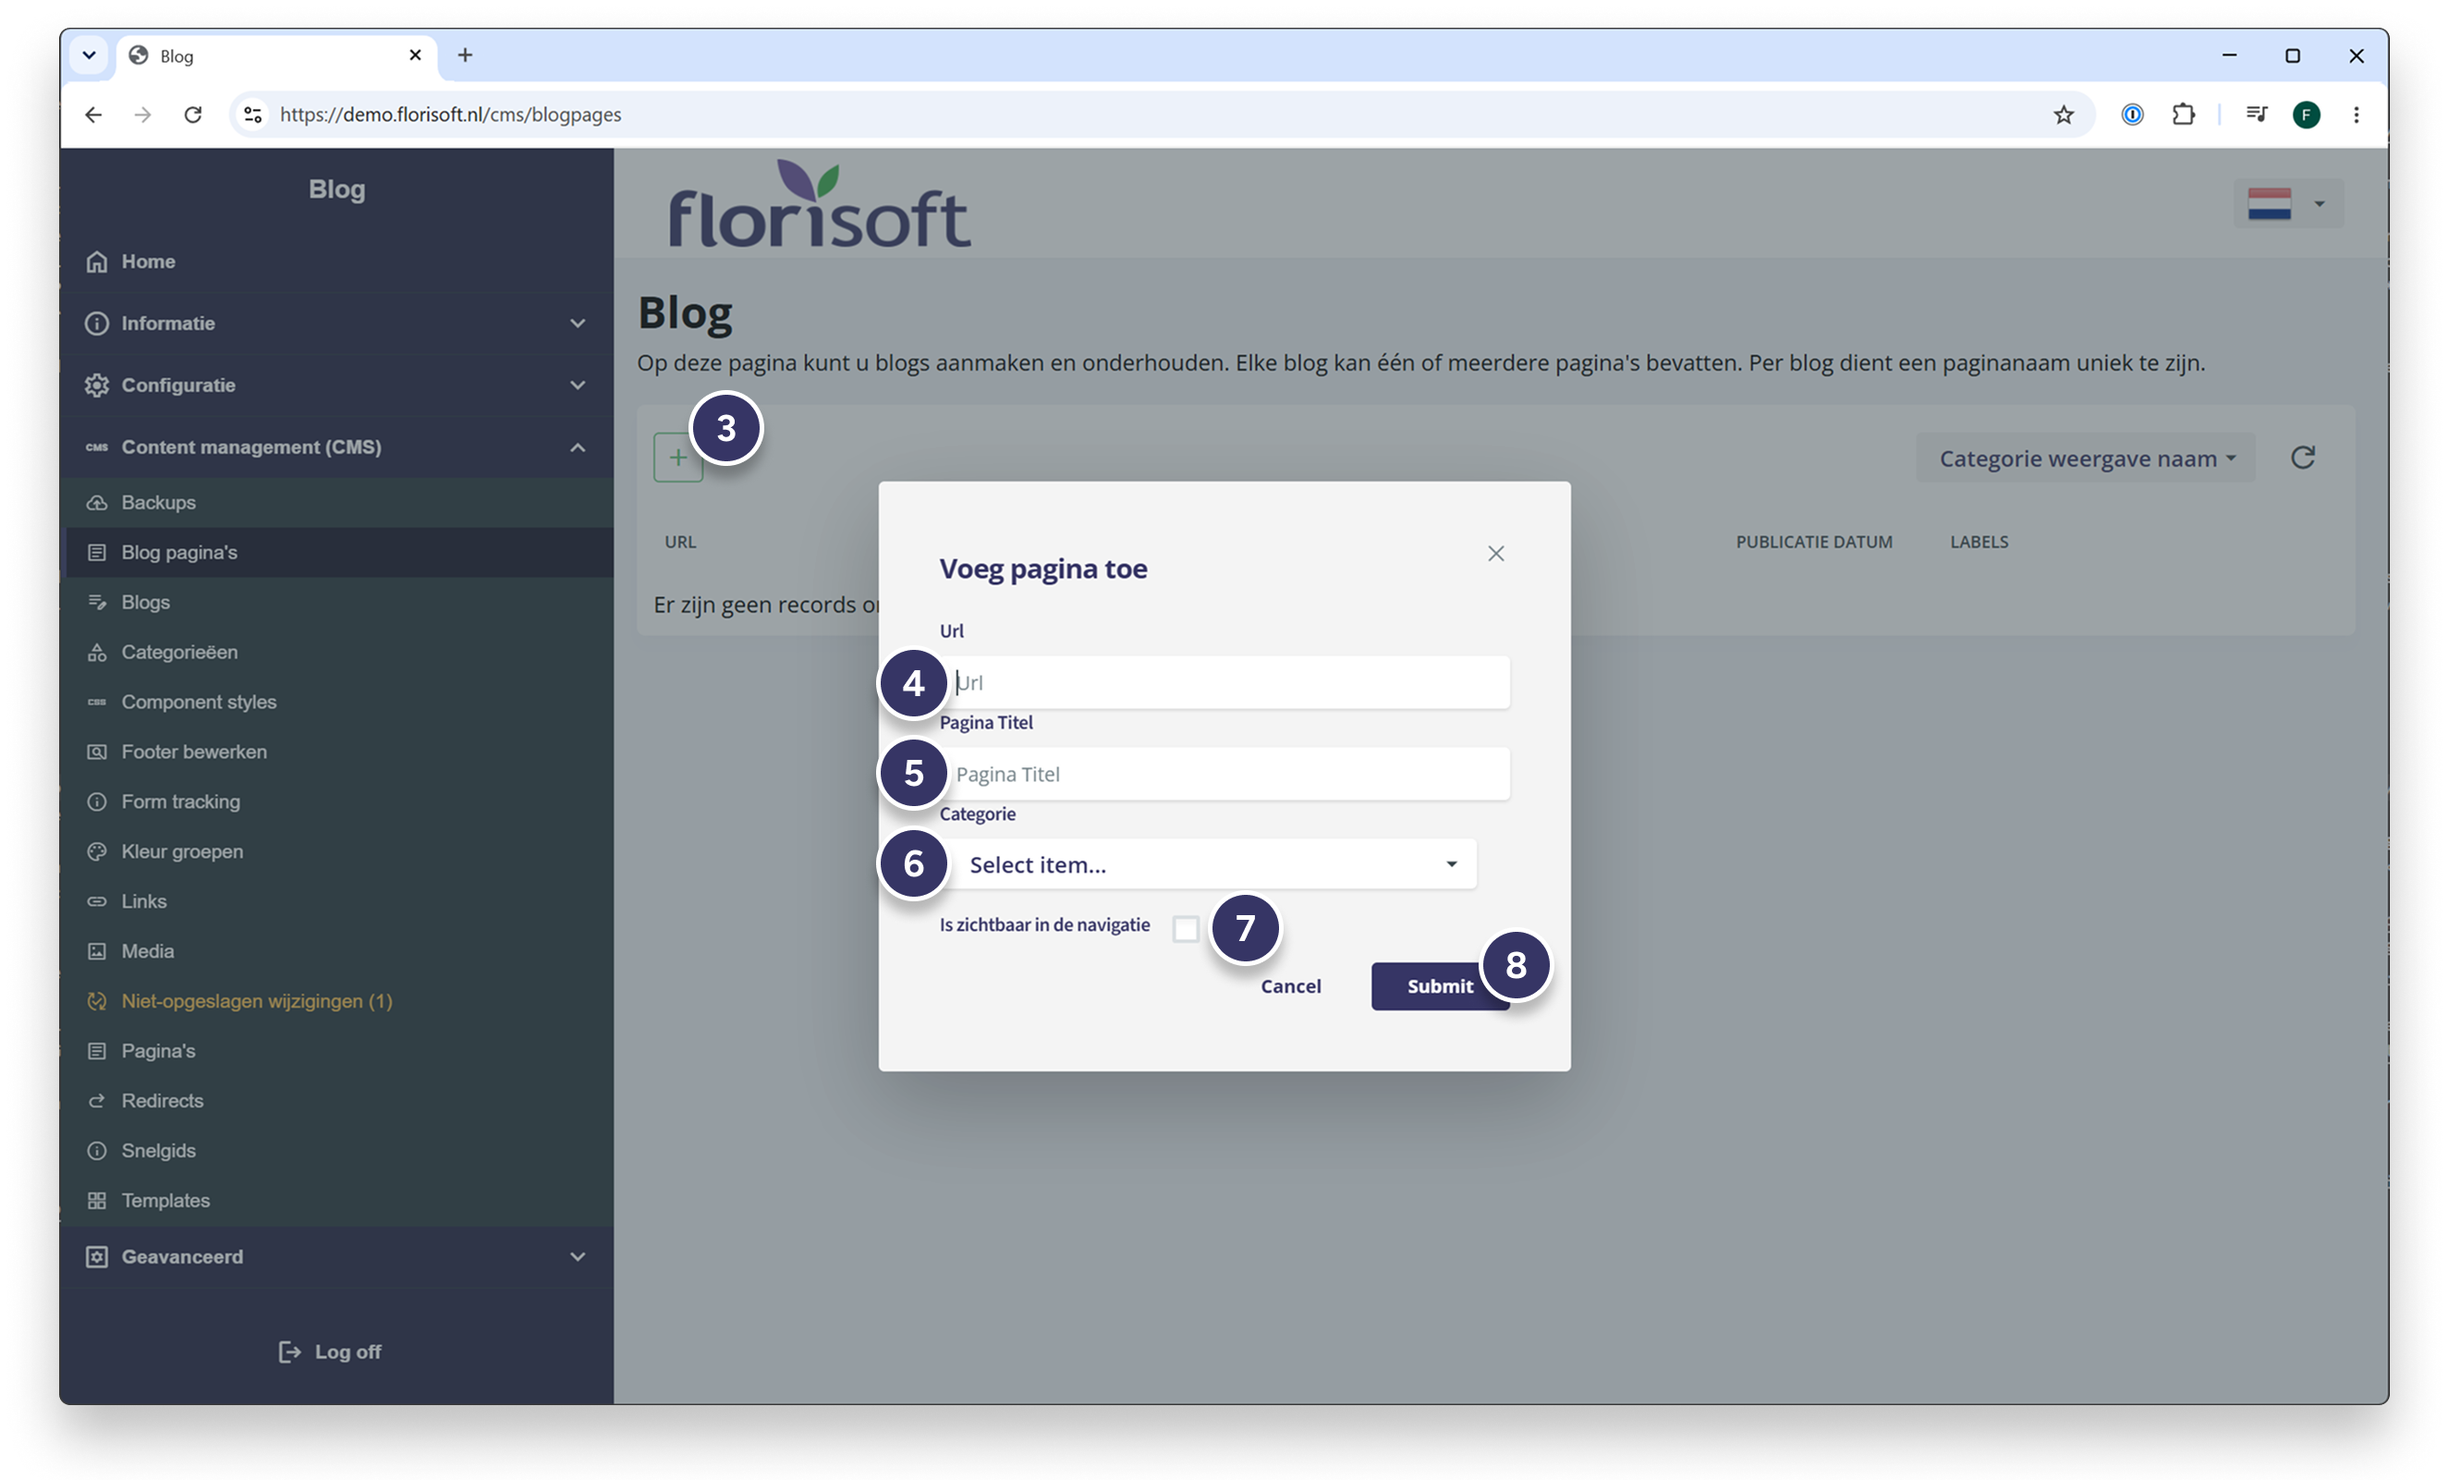
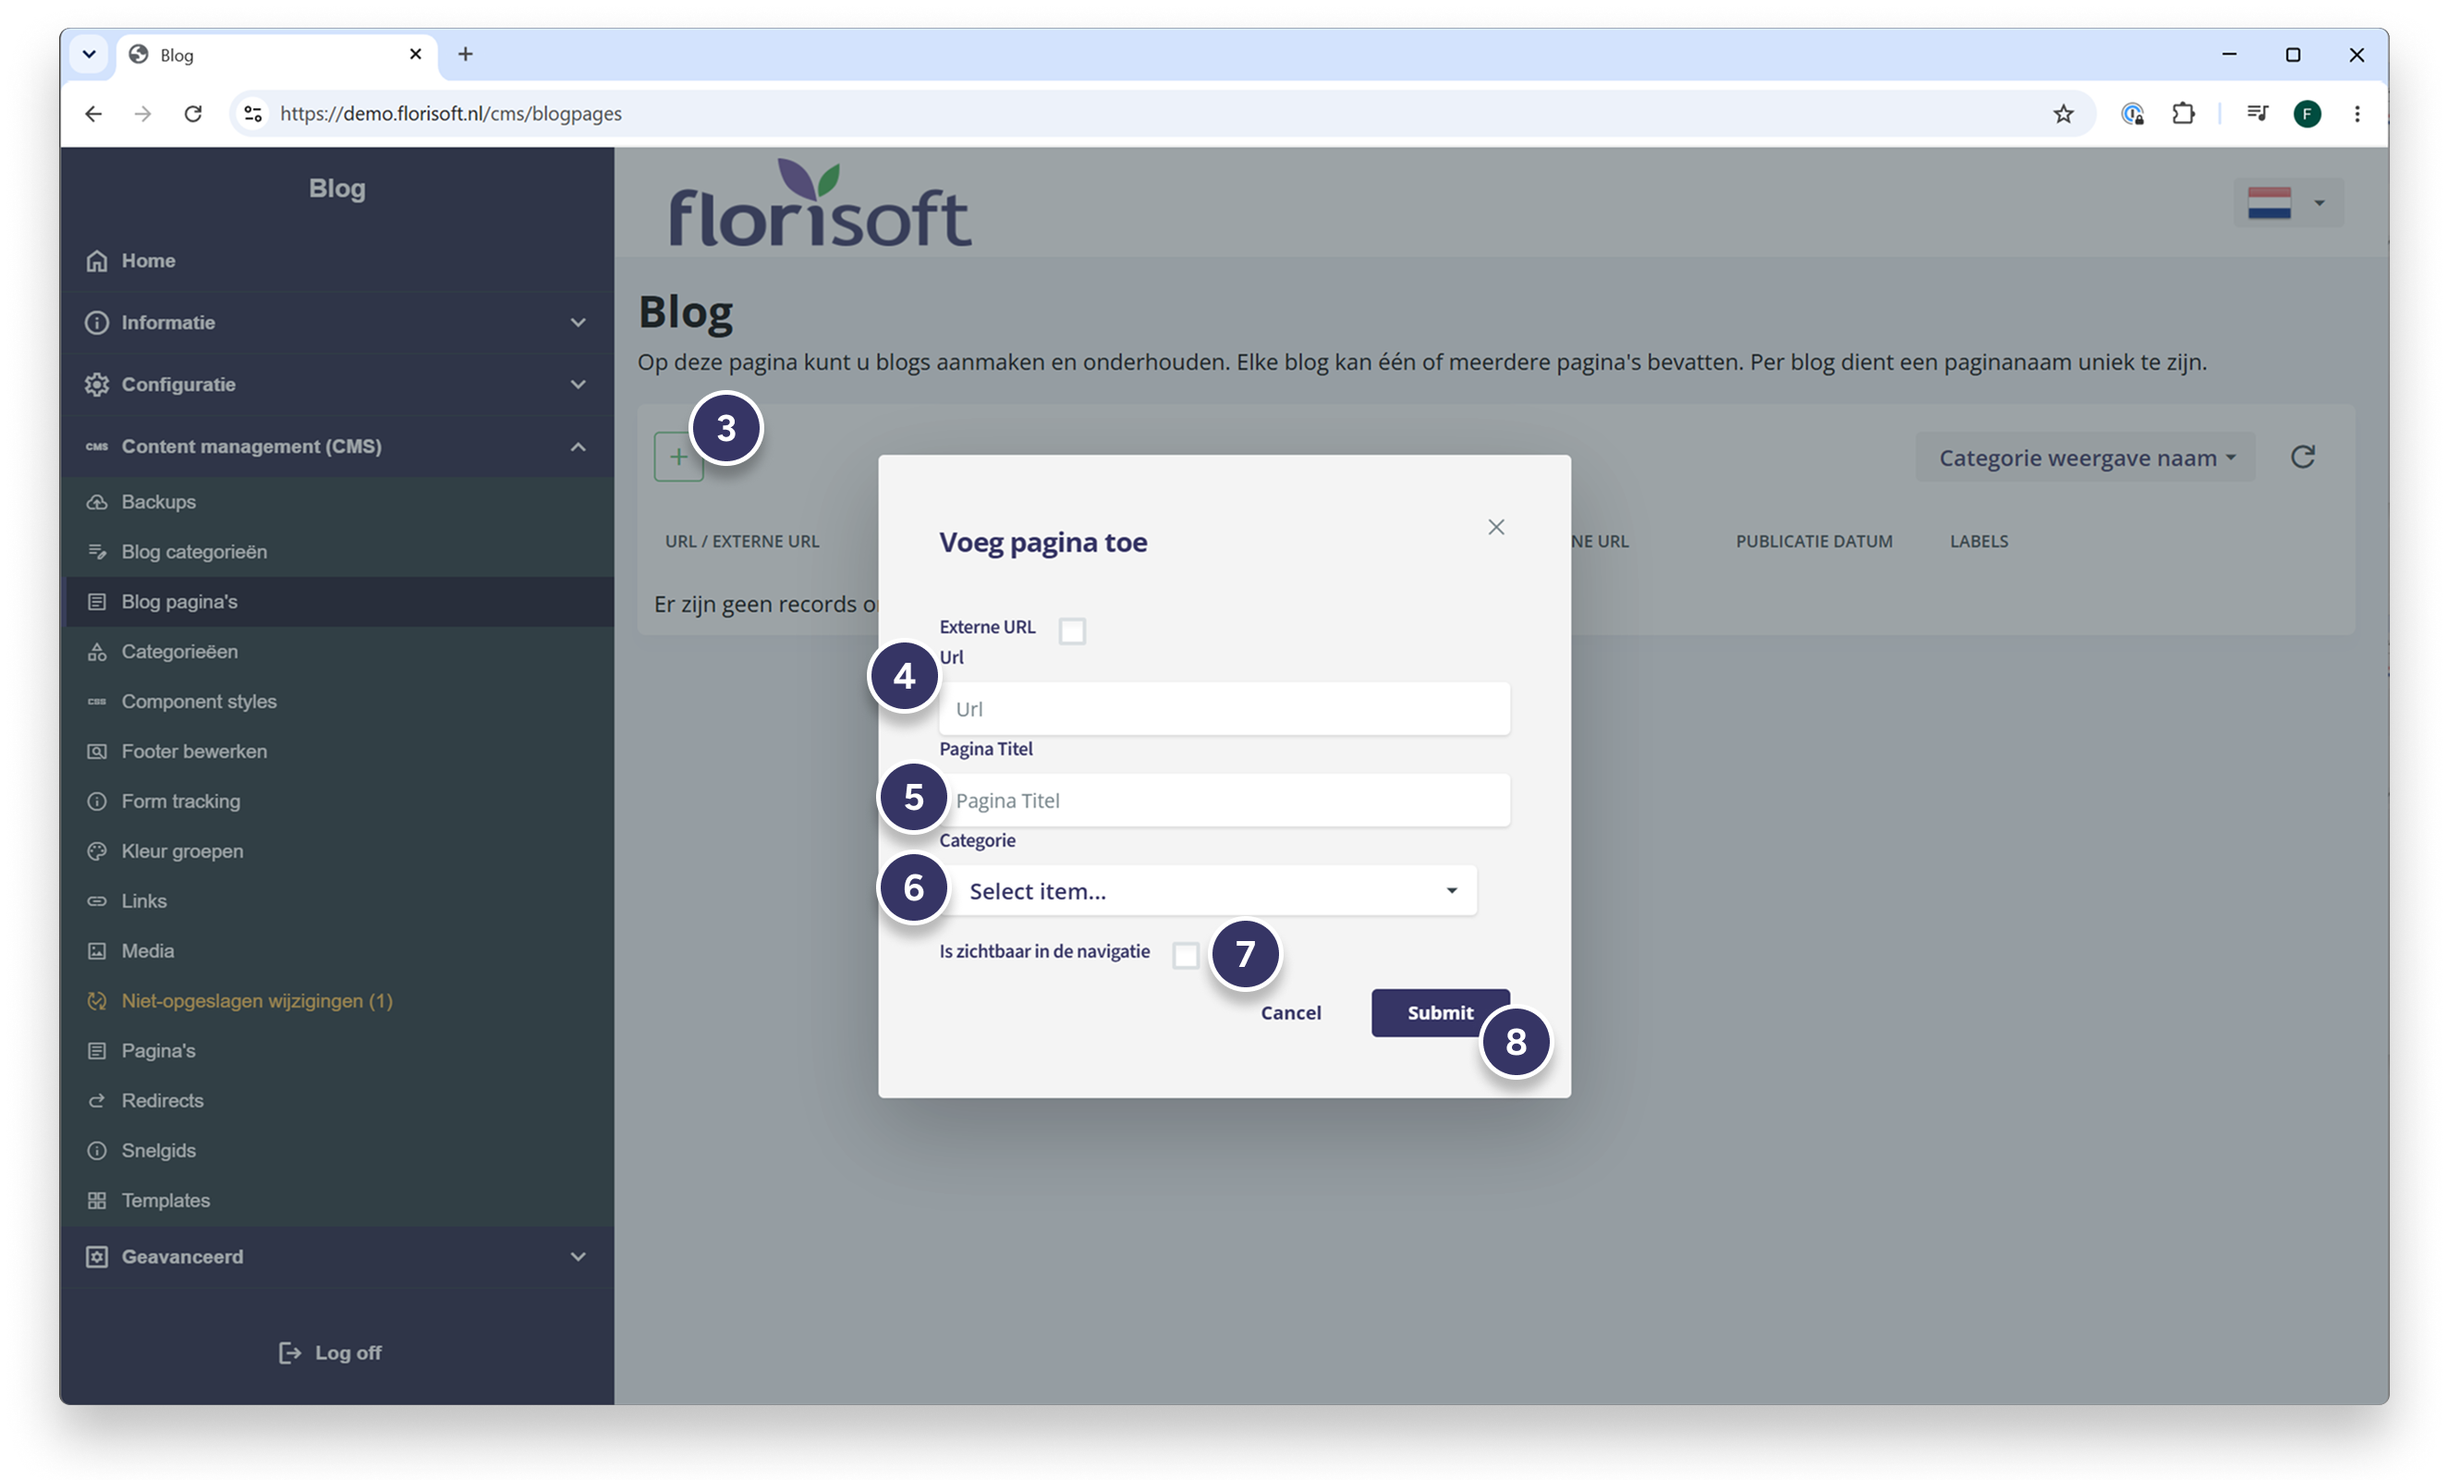
[CMS] Blogpage update

diff --git a/FLORISHOP MANUALS/CMS/CMS 2.0 Manual - NL.md b/FLORISHOP MANUALS/CMS/CMS 2.0 Manual - NL.md
@@ -34,6 +34,9 @@
 - [Media](#media)
 - [Documenten](#documenten)
 - [Links](#links)
+- [Editor](#editor)
+- [Navigator](#navigator)
+- [Componenten dialoog](#componenten-dialoog)
 
 ---
 
@@ -254,7 +257,7 @@ Een Blogpagina is een toegankelijk onderdeel binnen het CMS waarop content gepla
 |#|Uitleg|
 |:--|:--|
 |**1**|Na het aanmaken van de Blog categorie navigeer je via '*Content management (CMS)*' (1) naar '*Pagina’s*' (2).<details><summary><b>Klik hier voor de voorbeeldafbeelding</b></summary><img src="media/4.1.png"></details>|
-|**2**|Om een pagina aan te maken klik je op de knop met het '**+**'-teken (3). Hiermee open je het scherm voor het aanmaken van pagina’s. Er wordt nu een dialoog geopend. Pas hier de volgende instellingen aan:<br><br>- **URL (4):**: de naam van de pagina die zichtbaar wordt in de URL van de pagina. Hier hoef je niet het hele domein in mee te nemen. Enkel het pad-naam is voldoende zoals: '*voorbeeld*'.<br>**GEBRUIK GEEN SPATIES EN HOOFDLETTERS!**<br><br>- **Page display name (5):** de naam die zichtbaar wordt voor de klant op de website.<br><br>- **Category (6):** selecteer de juiste categorie, namelijk de categorie die in het vorige hoofdstuk is aangemaakt.<br><br>- **Is visible in navigation (7):** vink dit selectievakje aan om de pagina zichtbaar te maken in de webshop.<br><br>- **Submit (8):** klik op de knop 'Submit' om de pagina aan te maken.<details><summary><b>Klik hier voor de voorbeeldafbeelding</b></summary><img src="media/4.2.png"></details>|
+|**2**|Om een pagina aan te maken klik je op de knop met het '**+**'-teken (3). Hiermee open je het scherm voor het aanmaken van pagina’s. Er wordt nu een dialoog geopend. Pas hier de volgende instellingen aan:<br><br>- **Externe URL/URL (4):** Schakel deze optie alleen in wanneer je een externe URL wilt invoeren, zoals `https://florisoft.nl`. Wanneer een bezoeker op de pagina klikt, wordt de externe URL in een nieuw tabblad geopend en wordt de bezoeker naar het opgegeven webadres doorgestuurd.<br><br>Wanneer je geen externe URL gebruikt, voer je hier de naam in die zichtbaar wordt in de URL van de pagina. Je hoeft hierbij niet het volledige domein in te vullen; alleen de padnaam is voldoende, bijvoorbeeld: `voorbeeld`.<br><br>**LET OP: GEBRUIK GEEN SPATIES OF HOOFDLETTERS!**<br><br>- **Page display name (5):** de naam die zichtbaar wordt voor de klant op de website.<br><br>- **Category (6):** selecteer de juiste categorie, namelijk de categorie die in het vorige hoofdstuk is aangemaakt.<br><br>- **Is visible in navigation (7):** vink dit selectievakje aan om de pagina zichtbaar te maken in de webshop.<br><br>- **Submit (8):** klik op de knop 'Submit' om de pagina aan te maken.<details><summary><b>Klik hier voor de voorbeeldafbeelding</b></summary><img src="media/4.2.png"></details>|
 |**3**|Via het potlood-icoontje (9) Open je Properties (10) dialoog van de zojuist aangemaakte pagina. Klik op de knop '*Vertalingen bewerken*' (11).<details><summary><b>Klik hier voor de voorbeeldafbeelding</b></summary><img src="media/4.3.png"></details>|
 |**4**|Het vertaal dialoog wordt geopend. De ingestelde standaard taal (12) wordt aan de linkerkant getoond. Stel via de rechter dropdown (13) de taal in die je wilt toepassen/bewerken. Stel de volgende instellingen in:<br><br>- **URL (14)**: voer de vertalingen in voor het URL pad.<br><br>- **Weergave pagina naam (15)**: voer de vertalingen in voor de weergave naam van de pagina.<br><br>- **Bevestigen (16)**: Klik op '*Bevestigen*' om de wijzigingen op te slaan.<details><summary><b>Klik hier voor de voorbeeldafbeelding</b></summary><img src="media/4.4.png"></details>|
 |**5**|Open het tabblad '*Visibility*' (17). Stel de volgende instellingen in:<br><br>- **Taal Zone Selectie (18)**: vink onder het dropdownmenu één of meerdere talen aan waaraan deze categorie gekoppeld moet worden. Onder Zone selectie (19) selecteer je een eigen gemaakte CMS Zone.<br><br>- **Geldig vanaf (20) en Geldig tot (21)**: onder 'Geldig vanaf' en 'Geldig tot' kunnen datums en tijden worden ingesteld waarop bovenstaande instellingen van toepassing zijn.<details><summary><b>Klik hier voor de voorbeeldafbeelding</b></summary><img src="media/4.5.png"></details>|
@@ -426,6 +429,30 @@ Wanneer je naast je FloriShop-domein ook een eigen website hebt, kan het handig 
 |:--|:--|
 |**1**|Navigeer via **Content Management (CMS)** (1) naar **Links** (2).<details><summary><b>Klik hier voor de voorbeeldafbeelding</b></summary><img src="media/16.1.png"></details>|
 |**2**|Klik op het **'+'-icoon** (3) om een nieuwe link aan te maken. Vul in het dialoogvenster de volgende gegevens in:<br><br>- **Naam (4):** geef de link een herkenbare naam.<br><br>- **URL (5):** vul de URL in waarnaar de link moet verwijzen.<br><br>- **Weergavenaam (6):** geef hier de naam op waaronder de link in de navigatiebalk wordt weergegeven.<br><br>- **Volgorde in navigatie (optioneel) (7):** bepaal hier de positie van de link in de navigatiebalk. **1** staat vooraan.<br><br>- **Gebruikerstoken toevoegen (optioneel) (8):** schakel deze optie in als er een gebruikerstoken aan de URL moet worden toegevoegd.<br><br>Klik vervolgens op **Opslaan** (9) om de link op te slaan. De link wordt daarna direct zichtbaar in de navigatiebalk van je shop.<details><summary><b>Klik hier voor de voorbeeldafbeelding</b></summary><img src="media/16.2.png"></details>|
+
+---
+
+#### Editor
+
+| Onderdeel | Beschrijving |
+|---|---|
+| Editor | Deze beschrijving wordt aangevuld |
+
+---
+
+#### Navigator
+
+| Onderdeel | Beschrijving |
+|---|---|
+| Navigator | Deze beschrijving wordt aangevuld |
+
+---
+
+#### Componenten dialoog
+
+| Onderdeel | Beschrijving |
+|---|---|
+| Componenten dialoog | Deze beschrijving wordt aangevuld |
 
 ---
 

diff --git a/FLORISHOP MANUALS/CMS/CMS 2.0 Manual - EN.md b/FLORISHOP MANUALS/CMS/CMS 2.0 Manual - EN.md
@@ -33,6 +33,9 @@
 - [Media](#media)
 - [Documents](#documents)
 - [Links](#links)
+- [Editor](#editor)
+- [Navigator](#navigator)
+- [Component dialog](#component-dialog)
 
 ---
 
@@ -255,7 +258,7 @@ A Blog Page is an accessible component within the CMS where content can be added
 |#|Explanation|
 |:--|:--|
 |**1**|After creating the Blog category, navigate via '*Content management (CMS)*' (1) to '*Pages*' (2).<details><summary><b>Click here for the example image</b></summary><img src="media/4.1.png"></details>|
-|**2**|To create a page, click the button with the '**+**' icon (3). This opens the page creation screen. A dialog will now appear. Adjust the following settings:<br><br>- **URL (4):** the name of the page that will be visible in the page URL. You do not need to include the entire domain name here. Only the path name is required, for example: '*example*'.<br>**DO NOT USE SPACES OR CAPITAL LETTERS!**<br><br>- **Page display name (5):** the name that will be visible to customers on the website.<br><br>- **Category (6):** select the correct category, namely the category that was created in the previous chapter.<br><br>- **Is visible in navigation (7):** check this checkbox to make the page visible in the webshop.<br><br>- **Submit (8):** click the 'Submit' button to create the page.<details><summary><b>Click here for the example image</b></summary><img src="media/4.2.png"></details>|
+|**2**|To create a page, click the button with the '**+**' icon (3). This opens the page creation screen. A dialog will now appear. Adjust the following settings:<br><br>- **External URL/URL (4):** Only enable this option when you want to enter an external URL, such as `https://florisoft.nl`. When a visitor clicks on the page, the external URL will open in a new tab and the visitor will be redirected to the specified web address.<br><br>When you are not using an external URL, enter the name that will be displayed in the page URL. You do not need to enter the full domain; only the path name is required, for example: `example`.<br><br>**PLEASE NOTE: DO NOT USE SPACES OR CAPITAL LETTERS!**<br><br>- **Page display name (5):** the name that will be visible to customers on the website.<br><br>- **Category (6):** select the correct category, namely the category that was created in the previous chapter.<br><br>- **Is visible in navigation (7):** check this checkbox to make the page visible in the webshop.<br><br>- **Submit (8):** click the 'Submit' button to create the page.<details><summary><b>Click here for the example image</b></summary><img src="media/4.2.png"></details>|
 |**3**|Click the pencil icon (9) to open the Properties (10) dialog of the newly created page. Click the '*Edit translations*' button (11).<details><summary><b>Click here for the example image</b></summary><img src="media/4.3.png"></details>|
 |**4**|The translation dialog will open. The configured default language (12) is displayed on the left side. Use the right dropdown menu (13) to select the language you want to apply/edit. Configure the following settings:<br><br>- **URL (14):** enter the translations for the URL path.<br><br>- **Page display name (15):** enter the translations for the page display name.<br><br>- **Confirm (16):** click '*Confirm*' to save the changes.<details><summary><b>Click here for the example image</b></summary><img src="media/4.4.png"></details>|
 |**5**|Open the '*Visibility*' tab (17). Configure the following settings:<br><br>- **Language Zone Selection (18):** select one or more languages from the dropdown menu to which this category should be linked. Under Zone selection (19), select a custom CMS Zone.<br><br>- **Valid from (20) and Valid until (21):** under 'Valid from' and 'Valid until', dates and times can be configured for when the settings above should apply.<details><summary><b>Click here for the example image</b></summary><img src="media/4.5.png"></details>|
@@ -429,6 +432,30 @@ If you have your own website in addition to your FloriShop domain, it can be use
 |:--|:--|
 |**1**|Navigate via **Content Management (CMS)** (1) to **Links** (2).<details><summary><b>Click here for the example image</b></summary><img src="media/16.1.png"></details>|
 |**2**|Click the **'+' icon** (3) to create a new link. In the dialog, enter the following information:<br><br>- **Name (4):** enter a recognizable name for the link.<br><br>- **URL (5):** enter the URL to which the link should navigate.<br><br>- **Display name (6):** enter the name under which the link should be displayed in the navigation bar.<br><br>- **Navigation order (optional) (7):** determine the position of the link in the navigation bar. **1** places the link at the beginning.<br><br>- **Add user token (optional) (8):** enable this option if a user token should be added to the URL.<br><br>Then click **Save** (9) to save the link. The link will then be displayed directly in the navigation bar of your shop.<details><summary><b>Click here for the example image</b></summary><img src="media/16.2.png"></details>|
+
+---
+
+#### Editor
+
+| Onderdeel | Beschrijving |
+|---|---|
+| Editor | Deze beschrijving wordt aangevuld |
+
+---
+
+#### Navigator
+
+| Onderdeel | Beschrijving |
+|---|---|
+| Navigator | Deze beschrijving wordt aangevuld |
+
+---
+
+#### Component dialog
+
+| Onderdeel | Beschrijving |
+|---|---|
+| Component dialog | Deze beschrijving wordt aangevuld |
 
 ---
 
